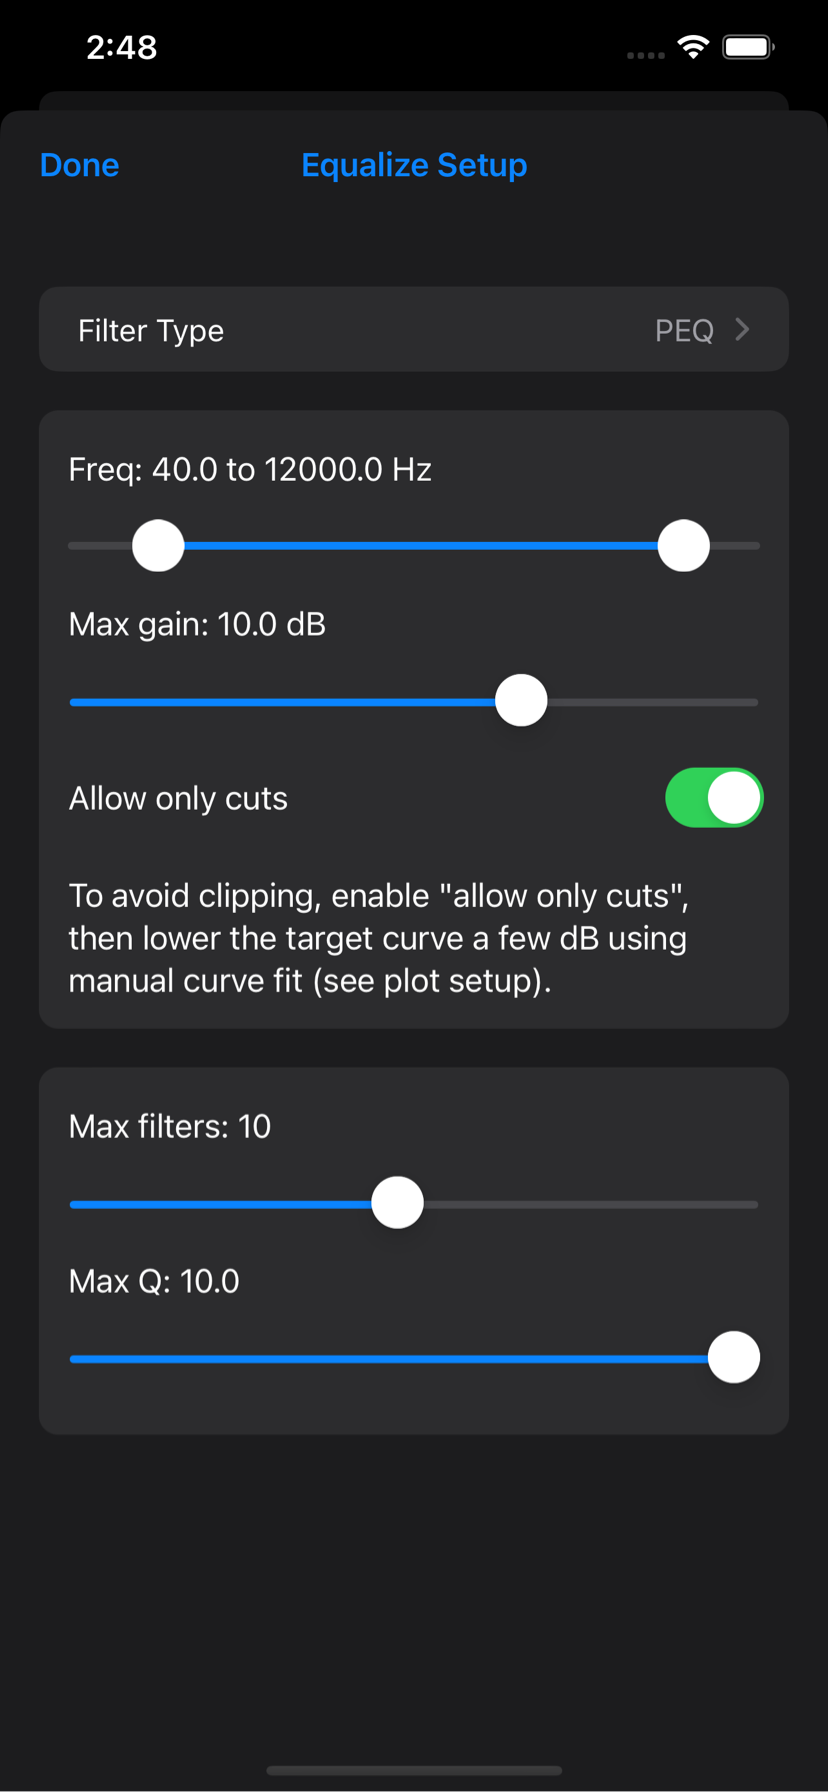
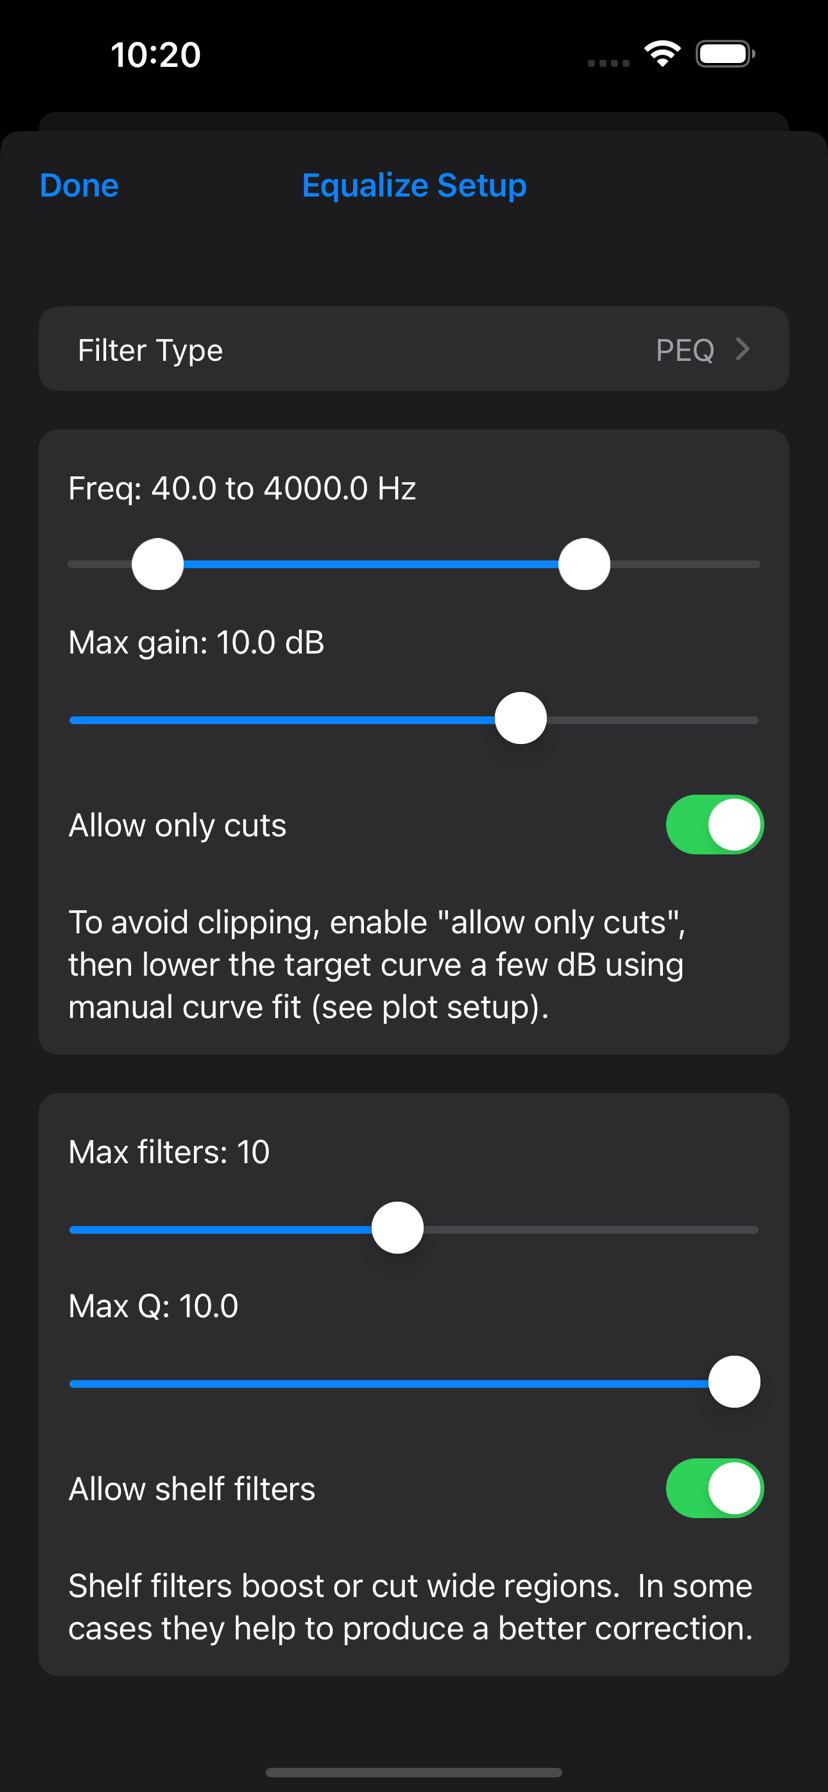
Updating equalize setup for shelf filters

diff --git a/docs/manual/equalize_setup.md b/docs/manual/equalize_setup.md
@@ -22,9 +22,9 @@ When FIR is selected, HouseCurve will generate a mixed phase FIR filter.  FIR fi
 ## Frequency
 The frequency range to equalize.  
 
-Use the minimum frequency to prevent the algorithm from correcting low frequencies beyond the capabilities of the audio system, ex: trying to boost at 20 Hz when the audio system can barely produce 40 Hz at -6 dBFS.  Doing so will lead to distortion and possibly audio system damage.
+Adjust the frequency range to match the capabilties of your audio system.  Attempting to correct beyond its capabilities will lead to distortion and possibly audio system damage.  For example, if your system is -10 dB below the target curve at 40 Hz, it is unlikely a 10 dB boost will improve the bass without distortion (+10 dB is 10x the power).
 
-The maximum frequency can be used to avoid wasting filters on high frequency issues that may not be audible.
+Lower the maximum frequency to avoid wasting filters on issues that may not be audible.  This also helps Equalize Tool focus on the lower frequencies, where room correction has the largest benefit.
 
 ## Max gain
 The maximum gain range filters (absolute gain).
@@ -40,6 +40,11 @@ The maximum number of filters to use for PEQ correction.  HouseCurve will alloca
 For a parametric equalizer, set this to the number of filters your system supports.  For a convolution engine (ie: using the impulse response), the number of filters just controls the fidelity of the correction.  More filters may not make an audible difference.
 
 ## Max Q
-The maximum Q for PEQ filters, set this to the value your parametric equalizer supports.  The "Q" of a filter is roughly the width.  The higher the Q, the narrower the filter.
+The maximum Q for PEQ filters.  Set this to the value your parametric equalizer supports.  The minimum Q is fixed at 0.5.  The "Q" of a peak filter is roughly the width.  The higher the Q, the narrower the filter.
+
+## Allow shelf filters
+When enabled, Equalize Tool will consider high shelf and low shelf filters in the correction.  In some cases, a single shelf filter can replace several peak filters, resulting in a better correction.
+
+The Q range for shelf filters is limited to between 0.5 and 1.0.  This ensures the shelf filters smoothly raise or lower regions.  At Q values above 1.0, the smooth shape of the shelf begins to degenerate, growing peaks on either side of the center frequency (a boost and a cut).
 
 
